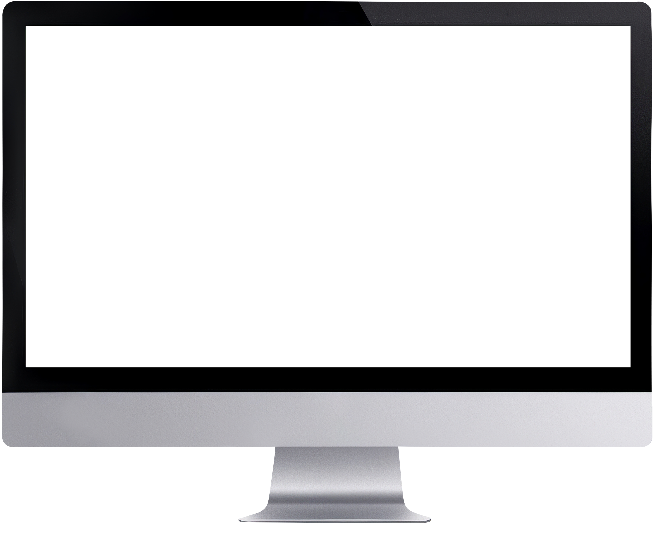
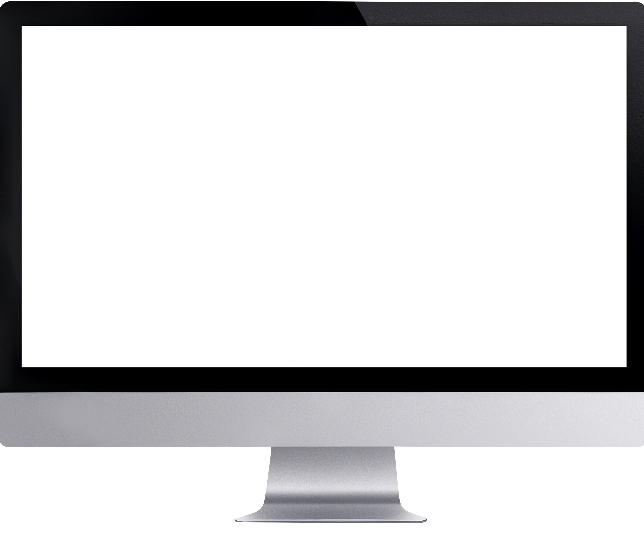
feat(works): add carousel controls and animated work images
- add useState and prev/next handlers to cycle work images
- wire WorkNavBtn to update activeIndex
- pass activeIndex to WorkImages and animate via translateX
- tweak mockup image classes/sizes and rounded overflow handling
- remove old tablet-mockup asset

diff --git a/src/components/sections/Works.tsx b/src/components/sections/Works.tsx
@@ -11,6 +11,7 @@ import {
 } from "lucide-react";
 import { WorkNavBtn } from "../ui/WorkNavBtn";
 import { WorkImages } from "../ui/WorkImages";
+import { useState } from "react";
 
 const tabletWorkImg: { src: string; alt: string }[] = [
   { src: "https://picsum.photos/id/111/200/300", alt: "car" },
@@ -35,6 +36,14 @@ const mobileWorkImg: { src: string; alt: string }[] = [
 ];
 
 export const Works = () => {
+  const [activeIndex, setActiveIndex] = useState(0);
+
+  const handlePrev = () => {
+    setActiveIndex((prev) => (prev > 0 ? prev - 1 : tabletWorkImg.length - 1));
+  };
+  const handleNext = () => {
+    setActiveIndex((prev) => (prev < tabletWorkImg.length - 1 ? prev + 1 : 0));
+  };
   return (
     <section
       style={{
@@ -56,35 +65,42 @@ export const Works = () => {
           </p>
         </div>
         <div className="relative mt-10 flex flex-col items-center justify-center">
-          <WorkNavBtn className="left-0">
+          <WorkNavBtn onClick={handlePrev} className="left-0">
             <ChevronLeftIcon className="size-8" />
           </WorkNavBtn>
-          <WorkNavBtn className="right-0">
+          <WorkNavBtn onClick={handleNext} className="right-0">
             <ChevronRightIcon className="size-8" />
           </WorkNavBtn>
           <div className="mockup-wrapper relative w-sm">
             <div className="tablet-mock absolute bottom-0 left-0 w-44">
-              <img src={tabletMockup} alt="" className="mockup" />
+              <img
+                src={tabletMockup}
+                alt=""
+                className="mockup h-full w-full object-cover"
+              />
               <WorkImages
                 heightClass="h-58"
-                widthClass="w-45"
+                widthClass="w-43"
                 images={tabletWorkImg}
+                activeIndex={activeIndex}
               />
             </div>
             <div className="desktop-mock relative isolate w-full">
-              <img src={desktopMockup} alt="" className="mockup" />
+              <img src={desktopMockup} alt="" className="mockup w-[101%]" />
               <WorkImages
-                heightClass="h-52"
+                heightClass="h-54"
                 widthClass="w-sm"
                 images={desktopWorkImg}
+                activeIndex={activeIndex}
               />
             </div>
             <div className="mobile-mock absolute right-0 bottom-0 w-28">
               <img src={mobileMockup} alt="" className="mockup" />
               <WorkImages
-                heightClass="h-52"
-                widthClass="w-28.5"
+                heightClass="h-54"
+                widthClass="w-26.5"
                 images={mobileWorkImg}
+                activeIndex={activeIndex}
               />
             </div>
           </div>

diff --git a/src/components/ui/WorkImages.tsx b/src/components/ui/WorkImages.tsx
@@ -5,24 +5,31 @@ interface WorkImagesProps {
   heightClass: string;
   widthClass: string;
   images: { src: string; alt: string }[];
+  activeIndex: number;
 }
 
 export const WorkImages = ({
   heightClass,
   widthClass,
   images,
+  activeIndex,
 }: WorkImagesProps) => {
   const key = useId();
   return (
-    <div className="absolute top-2 z-[-1] max-w-full overflow-hidden">
-      <div className="flex items-center">
+    <div
+      className={cn(
+        "absolute top-1.5 z-[-1] overflow-hidden rounded-xl",
+        widthClass,
+      )}
+    >
+      <div
+        style={{ transform: `translateX(${-100 * activeIndex}%)` }}
+        className="flex items-center duration-300"
+      >
         {images.map((img) => (
-          <div
-            key={key}
-            className={cn("h-58 w-45 shrink-0 px-2", heightClass, widthClass)}
-          >
+          <div key={key} className={cn("w-full shrink-0", heightClass)}>
             <img
-              className="h-full w-full object-cover"
+              className="h-full w-full rounded-xl object-cover"
               src={img.src}
               alt={img.alt}
             />
